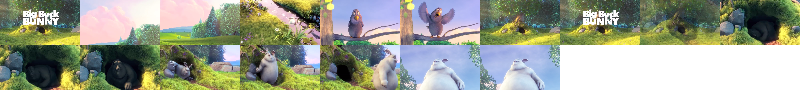
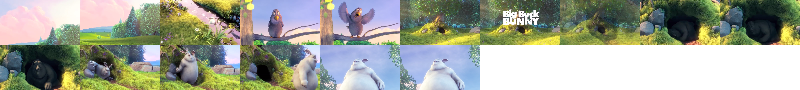
Completed with thumb generation and showing

diff --git a/src/dynamics/video_recorder/recorder/recorder.js b/src/dynamics/video_recorder/recorder/recorder.js
@@ -89,6 +89,7 @@ Scoped.define("module:VideoRecorder.Dynamics.Recorder", [
                     "allowcustomupload": true,
                     "manual-upload": false,
                     "camerafacefront": false,
+                    "createthumbnails": true,
                     "primaryrecord": true,
                     "allowscreen": false,
                     "nofullscreen": false,
@@ -159,7 +160,6 @@ Scoped.define("module:VideoRecorder.Dynamics.Recorder", [
                         label: 'English'
                     }],
                     "tracktags": [],
-                    "createthumbnails": true, //TODO: Move to options
                     "videometadata": {
                         "height": null,
                         "width": null,
@@ -325,6 +325,7 @@ Scoped.define("module:VideoRecorder.Dynamics.Recorder", [
                     this.__cameraSignal = true;
 
                     this.snapshots = [];
+                    this.thumbnails = [];
 
                     if (this.get("onlyaudio")) {
                         this.set("picksnapshots", false);
@@ -809,7 +810,14 @@ Scoped.define("module:VideoRecorder.Dynamics.Recorder", [
                                 if (snap) {
                                     if (!this.get('videometadata').height && typeof Image !== 'undefined') {
                                         RecorderSupport.snapshotMetaData(snap).success(function(data) {
+                                            var _thumbWidth = data.orientation === 'landscape' ? 80 : 35;
                                             this.set("videometadata", Objs.tree_merge(this.get("videometadata"), data));
+                                            this.set("videometadata", Objs.tree_merge(this.get("videometadata"), {
+                                                "thumbnails": {
+                                                    width: _thumbWidth,
+                                                    height: Math.floor(_thumbWidth / data.width * data.height)
+                                                }
+                                            }));
                                         }, this);
                                     }
                                     if (this.snapshots.length < this.get("snapshotmax")) {
@@ -818,6 +826,27 @@ Scoped.define("module:VideoRecorder.Dynamics.Recorder", [
                                         var i = Math.floor(Math.random() * this.get("snapshotmax"));
                                         this.recorder.removeSnapshot(this.snapshots[i]);
                                         this.snapshots[i] = snap;
+                                    }
+
+                                    if (this.get("createthumbnails")) {
+                                        var _currentRecordingSecond = Math.floor((Time.now() - this.__recording_start_time) / 1000);
+                                        var _thumbLatestIndex = this.get("videometadata").thumbnails.images.length > 1 ? this.get("videometadata").thumbnails.images.length - 1 : 0;
+                                        var _latestThumb = this.get("videometadata").thumbnails.images[_thumbLatestIndex];
+
+                                        // Add thumb each 2 seconds
+                                        if (typeof _latestThumb !== 'undefined') {
+                                            if (_currentRecordingSecond > _latestThumb.time + 1) {
+                                                this.get("videometadata").thumbnails.images.push({
+                                                    time: _currentRecordingSecond,
+                                                    snap: snap
+                                                });
+                                            }
+                                        } else {
+                                            this.get("videometadata").thumbnails.images.push({
+                                                time: _currentRecordingSecond,
+                                                snap: snap
+                                            });
+                                        }
                                     }
                                 }
                             }

diff --git a/src/dynamics/video_recorder/recorder/states.js b/src/dynamics/video_recorder/recorder/states.js
@@ -352,7 +352,7 @@ Scoped.define("module:VideoRecorder.Dynamics.RecorderStates.CreateUploadCoversho
                     _totalDuration = _video.duration;
                     _seekPeriod = this._calculateSeekPeriod(_totalDuration);
                     if (_video.videoWidth > 0 && _video.videoHeight > 0) {
-                        var _thumbWidth = _video.videoWidth > _video.videoHeight ? 80 : 23;
+                        var _thumbWidth = _video.videoWidth > _video.videoHeight ? 80 : 35;
                         this.dyn.set("videometadata", Objs.tree_merge(this.dyn.get("videometadata"), {
                             height: _video.videoHeight,
                             width: _video.videoWidth,
@@ -375,7 +375,8 @@ Scoped.define("module:VideoRecorder.Dynamics.RecorderStates.CreateUploadCoversho
                             start: true
                         });
                     } else {
-                        throw 'Could not find video dimentions information to be able create covershot';
+                        console.warn('Could not find video dimensions information to be able create covershot');
+                        this.next("Uploading");
                     }
                 }, this);
 
@@ -432,14 +433,11 @@ Scoped.define("module:VideoRecorder.Dynamics.RecorderStates.CreateUploadCoversho
          * @private
          */
         _calculateSeekPeriod: function(duration) {
-            if (duration < 15)
-                return 1;
-            if (duration >= 10 && duration < 40)
-                return 3;
-            if (duration >= 40 && duration < 100)
-                return 4;
+            if (duration < 15) return 1;
+            if (duration < 40) return 3;
+            if (duration < 100) return 4;
             else
-                return Math.floor(duration / 5);
+                return Math.floor(duration / 100) + 4;
         }
     });
 });
@@ -788,6 +786,8 @@ Scoped.define("module:VideoRecorder.Dynamics.RecorderStates.Recording", [
                     this._hasStopped();
                     if (this.dyn.get("picksnapshots") && this.dyn.snapshots.length >= this.dyn.get("gallerysnapshots"))
                         this.next("CovershotSelection");
+                    else if (this.dyn.get("videometadata").thumbnails.images.length > 3 && this.dyn.get("createthumbnails"))
+                        this.next("UploadThumbnails");
                     else
                         this.next("Uploading");
                 }, this).error(function(s) {
@@ -855,7 +855,7 @@ Scoped.define("module:VideoRecorder.Dynamics.RecorderStates.CovershotSelection",
         },
 
         _nextUploading: function(skippedCovershot) {
-            if (this.dyn.get("videometadata").thumbnails.images.length > 3)
+            if (this.dyn.get("videometadata").thumbnails.images.length > 3 && this.dyn.get("createthumbnails"))
                 this.next("UploadThumbnails");
             this.next("Uploading");
         }
@@ -939,11 +939,11 @@ Scoped.define("module:VideoRecorder.Dynamics.RecorderStates.UploadThumbnails", [
             row = row || 0;
             index = index || 0;
             ctx.drawImage(image, column * w, row * h, w, h);
-            index++;
-            if (index > 0 && (index % 10 === 0)) {
+            if ((index > 0 && (index % 10 === 0))) {
                 row++;
                 column = 0;
-            } else column++;
+            } else if (index !== 0) column++;
+            index++;
             if (typeof thumbnails.images[index] !== 'undefined' && thumbnails.images.length >= index) {
                 var _image, _prevIndex, _nextIndex, _startTime, _endTime, _formattedStartTime, _formattedEndTime;
                 _prevIndex = index - 1;
@@ -972,8 +972,9 @@ Scoped.define("module:VideoRecorder.Dynamics.RecorderStates.UploadThumbnails", [
                 }, this);
 
                 this._imageEvent.on(_image, "error", function(err) {
-                    throw "Error with loading thumbnail image. ".err;
+                    throw "Error with loading thumbnail image. Error: ".err;
                 }, this);
+
             } else {
                 if (thumbnails.images.length <= index) {
                     promise.asyncSuccess(canvas);

diff --git a/src/dynamics/_common/track_tags.js b/src/dynamics/_common/track_tags.js
@@ -3,10 +3,11 @@ Scoped.define("module:TrackTags", [
     "base:Objs",
     "base:Events.EventsMixin",
     "base:Async",
+    "base:TimeFormat",
     "browser:Dom",
     "browser:Info",
     "browser:Events"
-], function(Class, Objs, EventsMixin, Async, Dom, Info, DomEvents, scoped) {
+], function(Class, Objs, EventsMixin, Async, TimeFormat, Dom, Info, DomEvents, scoped) {
     return Class.extend({
         scoped: scoped
     }, [EventsMixin, function(inherited) {
@@ -33,6 +34,34 @@ Scoped.define("module:TrackTags", [
                 Async.eventually(function() {
                     this._loadMetaTrackTags();
                 }, this);
+            },
+
+            /**
+             * Will show thumb on duration
+             * @param {int} index
+             * @param {int} fromLeft
+             * @param {int} currentDuration
+             */
+            showDurationThumb: function(index, fromLeft, currentDuration) {
+                if (this._dyn.get("thumbcuelist")[index]) {
+                    var _cue = this._dyn.get("thumbcuelist")[index];
+                    var _time = currentDuration || (_cue.startTime + Math.round((_cue.startTime - _cue.endTime) / 2));
+                    var _thumbContainer = this.thumbContainer;
+                    var _thumbImage = _thumbContainer.querySelector('div');
+                    var _timeContainer = _thumbContainer.querySelector('span');
+                    _thumbContainer.style.opacity = '1.00';
+                    _thumbContainer.style.left = fromLeft - Math.round(_cue.thumbWidth / 1.5) + "px";
+                    _thumbImage.style.backgroundPositionX = "-" + _cue.positionX + "px";
+                    _thumbImage.style.backgroundPositionY = "-" + _cue.positionY + "px";
+                    _timeContainer.innerText = _time > 0 ? TimeFormat.format(TimeFormat.ELAPSED_MINUTES_SECONDS, _time * 1000) : '0:00';
+                }
+            },
+
+            /**
+             * Will hide thumbnail container
+             */
+            hideDurationThumb: function() {
+                this.thumbContainer.style.opacity = '0.00';
             },
 
             /**
@@ -140,6 +169,7 @@ Scoped.define("module:TrackTags", [
 
                             Dom.elementAddClass(_thumbContainer, this._dyn.get('css') + '-seeking-thumb-container');
 
+                            _thumbContainer.style.opacity = '0.00';
                             _thumbImageContainer.style.height = +(_dimensions[3]) + 'px';
                             _thumbImageContainer.style.width = +(_dimensions[2]) + 'px';
                             _thumbImageContainer.style.backgroundImage = "url('" + thumbLink + "')";
@@ -173,10 +203,15 @@ Scoped.define("module:TrackTags", [
                 Objs.iter(track.cues, function(cue, index) {
                     if (typeof cue === 'object') {
                         var _lineSplit = cue.text.trim().split('#xywh=')[1];
+                        var _coordinates = _lineSplit.split(',');
+                        // this here is main DYN instance
                         this.get("thumbcuelist").push({
                             startTime: cue.startTime,
                             endTime: cue.endTime,
-                            text: _lineSplit
+                            positionX: _coordinates[0],
+                            positionY: _coordinates[1],
+                            thumbWidth: _coordinates[2],
+                            thumbHeight: _coordinates[3]
                         });
                     }
                 }, this._dyn);

diff --git a/src/dynamics/video_player/controlbar/controlbar.js b/src/dynamics/video_player/controlbar/controlbar.js
@@ -81,14 +81,34 @@ Scoped.define("module:VideoPlayer.Dynamics.Controlbar", [
                         var target = ev.currentTarget;
                         var offset = Dom.elementOffset(target);
                         var dimensions = Dom.elementDimensions(target);
-                        var onDuration = this.get("duration") * (clientX - offset.left) / (dimensions.width || 1);
+                        var percentageFromStart = (clientX - offset.left) / (dimensions.width || 1);
+                        var onDuration = this.get("duration") * percentageFromStart;
 
                         var player = this.__parent.player;
 
                         if (this.__parent.__trackTags.hasThumbs) {
-                            var _trackTags = this.__parent.__trackTags;
+                            var _index;
+                            var _dyn = this.__parent;
+                            var _trackTags = _dyn.__trackTags;
+                            var _cuesCount = _dyn.get("thumbcuelist").length;
+                            if (onDuration > 0) {
+                                _index = Math.floor(_cuesCount * percentageFromStart);
+                                for (var i = _index - 2; i < _cuesCount; i++) {
+                                    if (_dyn.get("thumbcuelist")[i]) {
+                                        var _cue = _dyn.get("thumbcuelist")[i];
+                                        if (_cue.startTime < onDuration && _cue.endTime > onDuration) {
+                                            _trackTags.showDurationThumb(i, clientX, onDuration);
+                                            break;
+                                        }
+                                    }
+                                }
+                            } else {
+                                _index = Math.floor(_cuesCount * percentageFromStart);
+                                _trackTags.showDurationThumb(_index, clientX);
+                            }
+
                             this.set("thumbisvisible", true);
-                            target.appendChild(_trackTags.thumbContainer);
+                            this.activeElement().appendChild(_trackTags.thumbContainer);
                         }
 
                         if (this.get("_updatePosition")) {
@@ -108,7 +128,7 @@ Scoped.define("module:VideoPlayer.Dynamics.Controlbar", [
                         this.set("_updatePosition", false);
                         if (this.__parent.__trackTags.hasThumbs && this.get("thumbisvisible")) {
                             this.set("thumbisvisible", false);
-                            ev.currentTarget.removeChild(this.__parent.__trackTags.thumbContainer);
+                            this.__parent.__trackTags.hideDurationThumb();
                         }
                     },
 
@@ -300,6 +320,8 @@ Scoped.define("module:VideoPlayer.Dynamics.Controlbar", [
             "close-tracks": "Close CC",
             "show-tracks": "Show CC",
             "player-speed": "Player speed",
-            "settings": "Settings"
+            "settings": "Settings",
+            "airplay": "Airplay",
+            "airplay-icon": "Airplay icon."
         });
 });

diff --git a/src/dynamics/video_player/controlbar/video_player_controlbar.html b/src/dynamics/video_player/controlbar/video_player_controlbar.html
@@ -113,8 +113,8 @@
             <div class="{{css}}-airplay-container">
                 <svg width="16px" height="11px" viewBox="0 0 16 11" version="1.1" xmlns="http://www.w3.org/2000/svg" xmlns:xlink="http://www.w3.org/1999/xlink">
                     <!-- Generator: Sketch 3.3.2 (12043) - http://www.bohemiancoding.com/sketch -->
-                    <title>Airplay</title>
-                    <desc>Airplay icon.</desc>
+                    <title>{{string('airplay')}}</title>
+                    <desc>{{string('airplay-icon')}}</desc>
                     <defs></defs>
                     <g stroke="none" stroke-width="1" fill-rule="evenodd" sketch:type="MSPage">
                         <path d="M4,11 L12,11 L8,7 L4,11 Z M14.5454545,0 L1.45454545,0 C0.654545455,0 0,0.5625 0,1.25 L0,8.75 C0,9.4375 0.654545455,10 1.45454545,10 L4.36363636,10 L4.36363636,8.75 L1.45454545,8.75 L1.45454545,1.25 L14.5454545,1.25 L14.5454545,8.75 L11.6363636,8.75 L11.6363636,10 L14.5454545,10 C15.3454545,10 16,9.4375 16,8.75 L16,1.25 C16,0.5625 15.3454545,0 14.5454545,0 L14.5454545,0 Z" sketch:type="MSShapeGroup"></path>

diff --git a/src/dynamics/video_player/player/player.js b/src/dynamics/video_player/player/player.js
@@ -728,7 +728,6 @@ Scoped.define("module:VideoPlayer.Dynamics.Player", [
                     Objs.iter(this.__video.textTracks, function(track, index) {
                         if (typeof this.__video.textTracks[index] === 'object' && this.__video.textTracks[index]) {
                             var _track = this.__video.textTracks[index];
-                            // Rashad's changes
                             // If set custom style to true show cue text in our element
                             if (_track.kind !== 'metadata') {
                                 if (_track.language === _lang) {

diff --git a/src/themes/video_player/default/controlbar.scss b/src/themes/video_player/default/controlbar.scss
@@ -213,6 +213,13 @@
 
 .#{$css}-seeking-thumb-container {
     position: absolute;
-    bottom: 20px;
-    left: 10px;
+    padding: 3px 4px;
+    background-color: #ffffff;
+    bottom: 45px;
+    left: 5px;
+    text-align: center;
+    & > span {
+        font-size: 0.6em;
+        color: #2c2c2c;
+    }
 }

diff --git a/demos/themes/recorder/cube.html b/demos/themes/recorder/cube.html
@@ -38,7 +38,7 @@
 				</div>
 				<div class="clearfix"></div>
 				<hr/>
-				<div style="background: black;height: 50px;width: 67px;"></div>
+				<div style="background: black; height: 50px; width: 67px;"></div>
 				<div class="clearfix"></div>
 				<hr/>
 				<div id="canvas-container"></div>

diff --git a/README.md b/README.md
@@ -1,4 +1,4 @@
-# betajs-media-components 0.0.153
+# betajs-media-components 0.0.154
 [![Code Climate](https://codeclimate.com/github/betajs/betajs-media-components/badges/gpa.svg)](https://codeclimate.com/github/betajs/betajs-media-components)
 [![NPM](https://img.shields.io/npm/v/betajs-media-components.svg?style=flat)](https://www.npmjs.com/package/betajs-media-components)
 [![Gitter Chat](https://badges.gitter.im/betajs/betajs-media-components.svg)](https://gitter.im/betajs/betajs-media-components)
